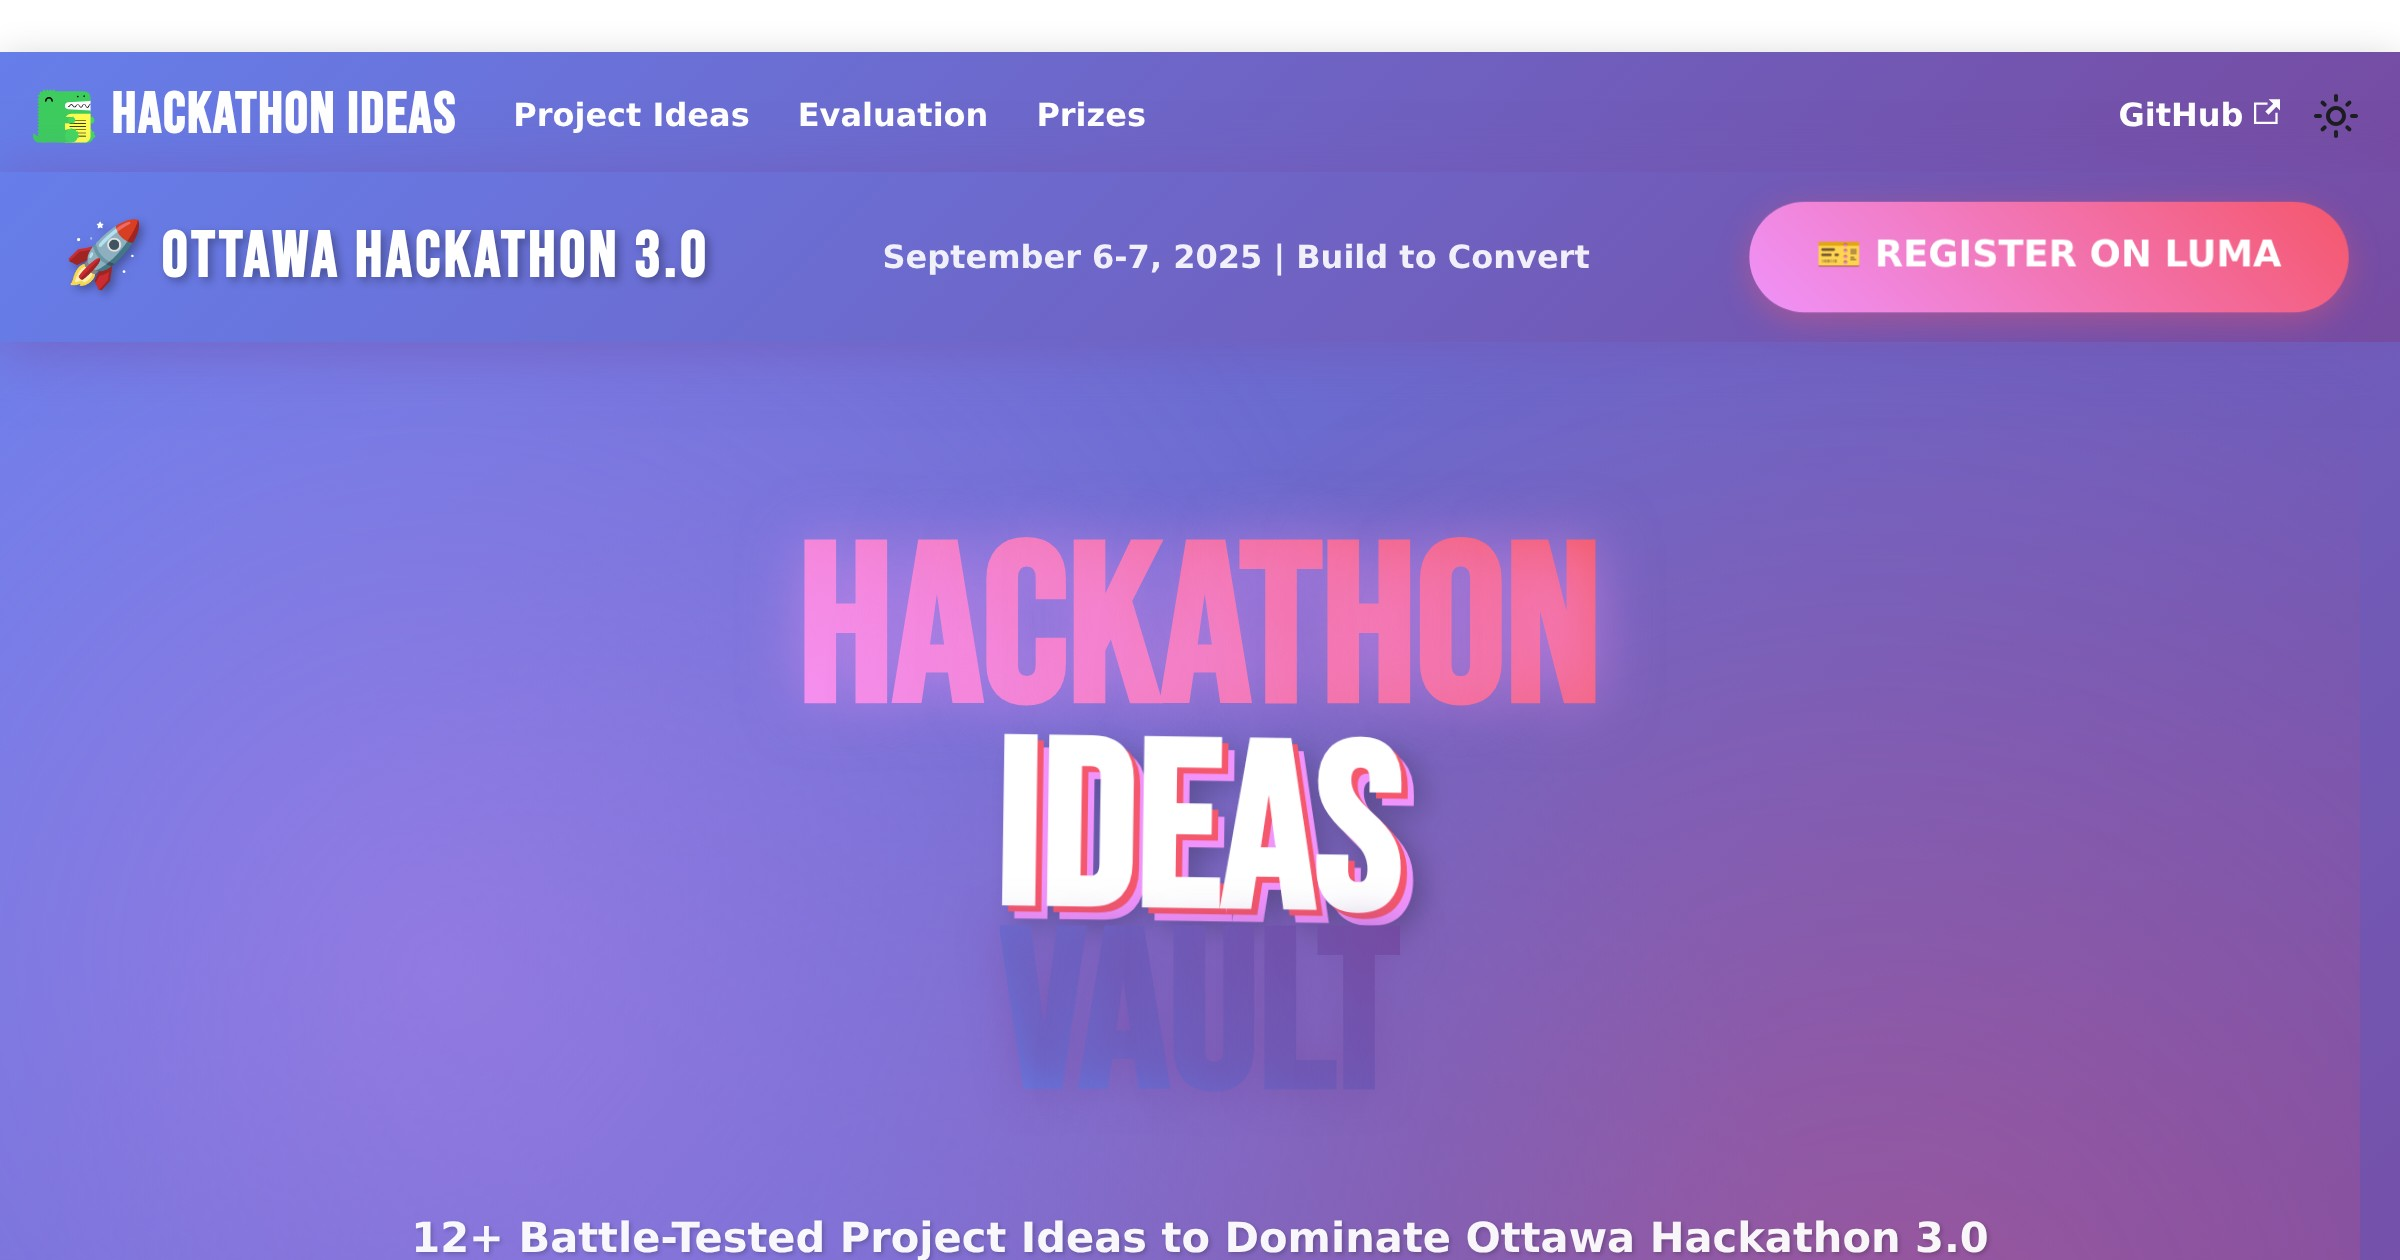
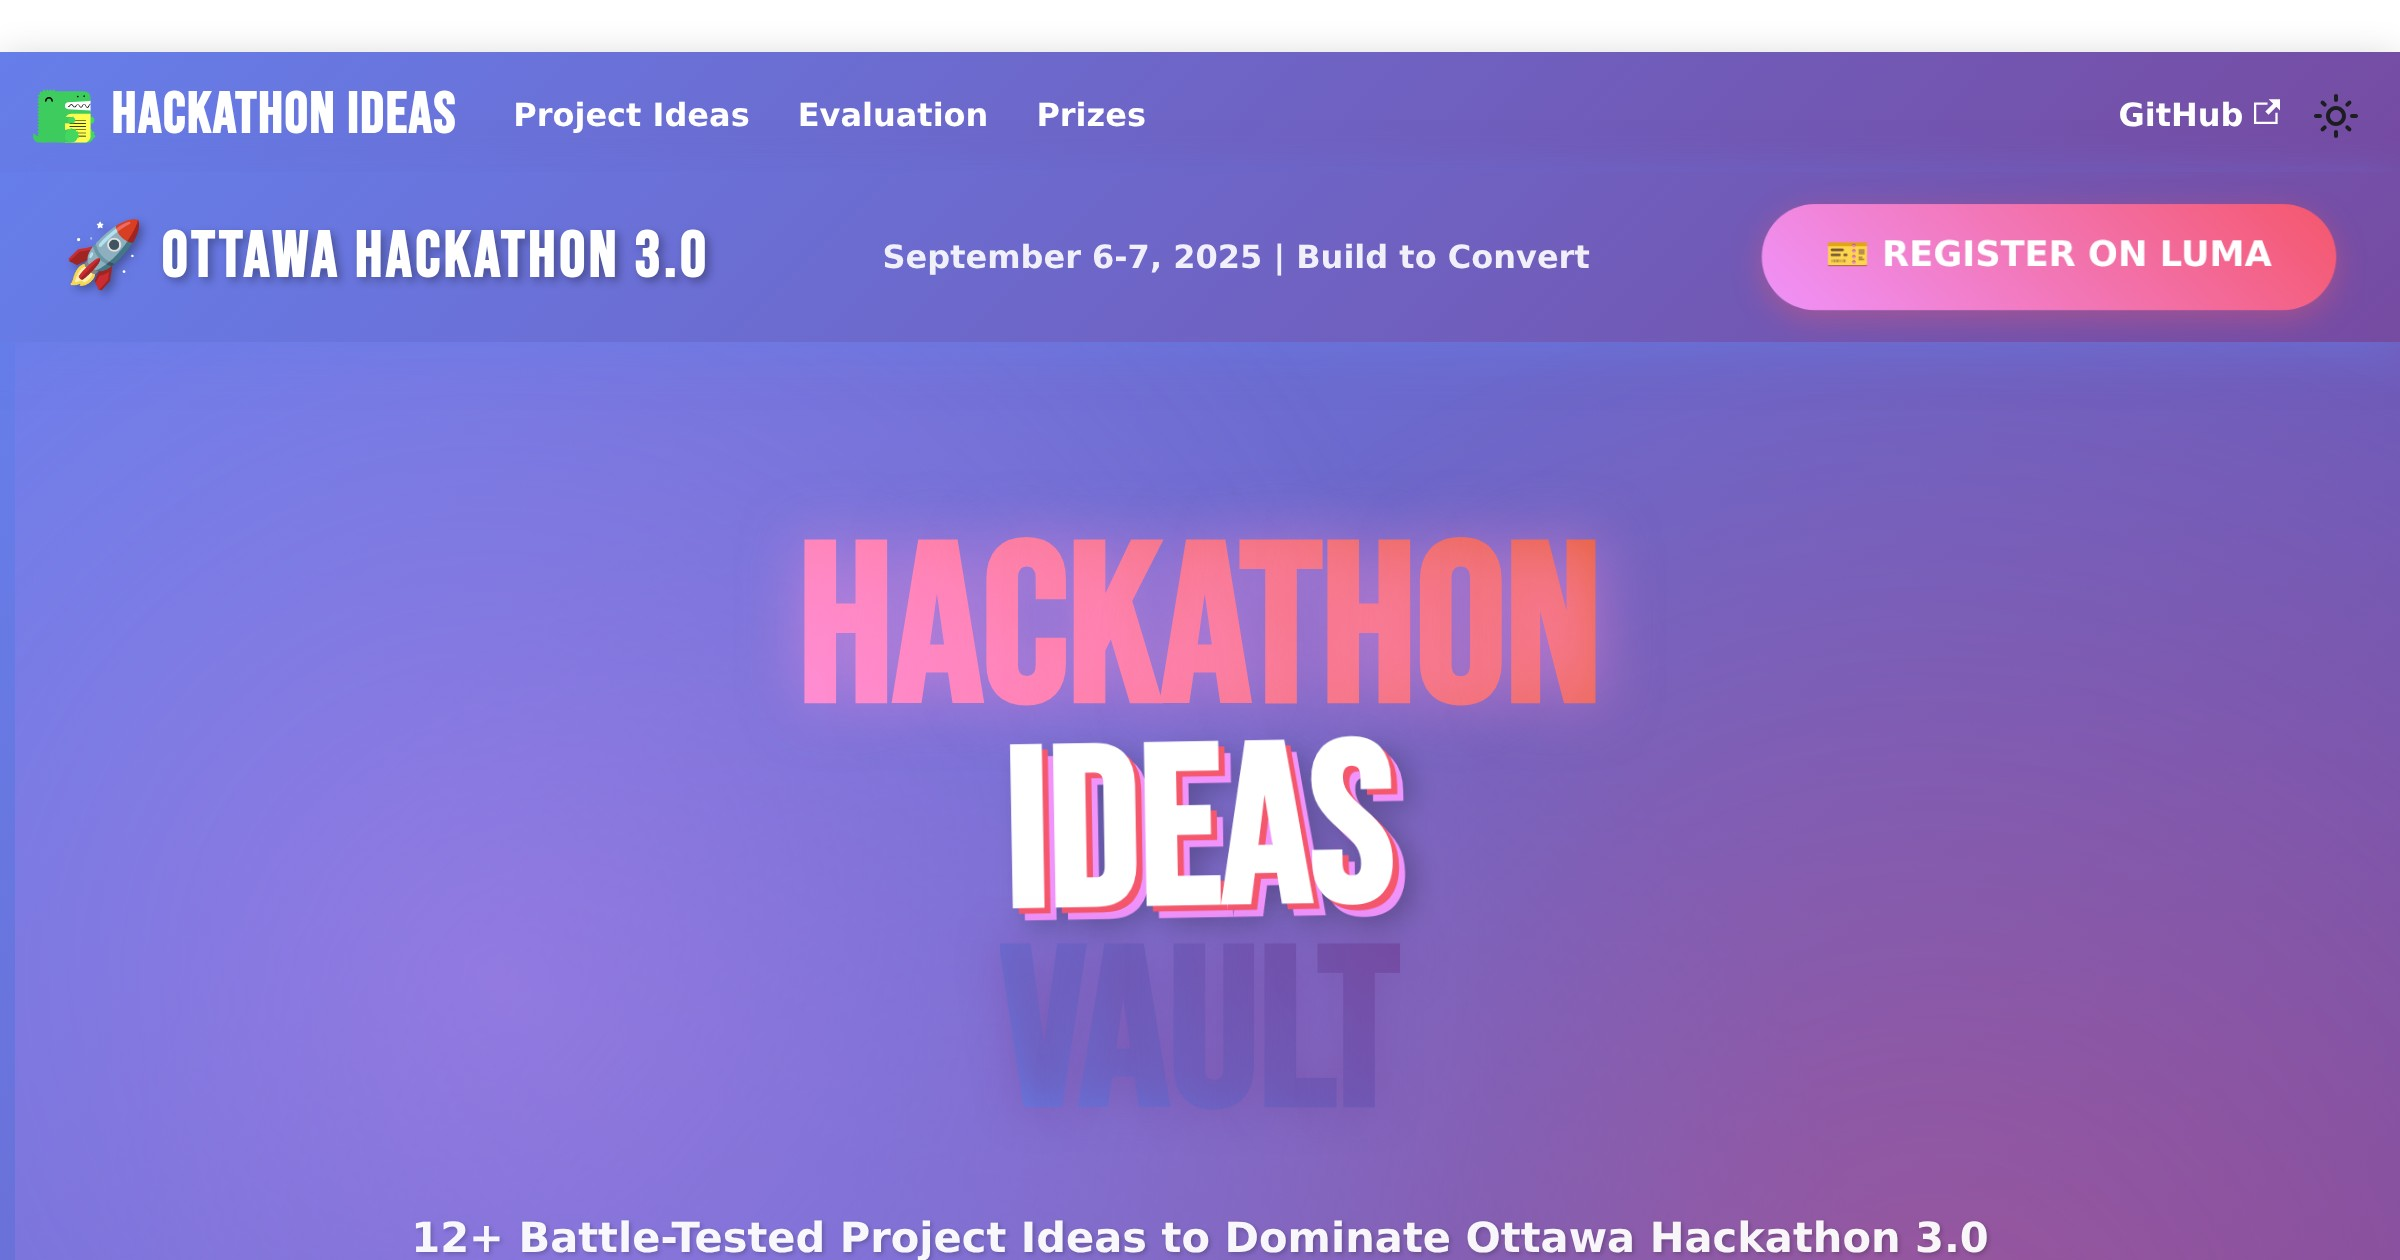
Add full-page screenshot showing entire website
- Create full-page screenshot capturing entire website content
- Keep social preview at optimal 1200x630 dimensions
- Update README to show full-page view
- Use fullPage: true parameter in Puppeteer for complete capture
- Maintain separate images for different use cases:
  - website-fullpage.jpg: Complete page view for README
  - website-preview.jpg: Standard viewport for general use
  - social-preview.jpg: Optimized for social media sharing

🤖 Generated with [Claude Code](https://claude.ai/code)

Changed region(s): [[0.3125, 0.4024, 0.6875, 0.7429], [0.7188, 0.1548, 1.0, 0.2476]]

diff --git a/README.md b/README.md
@@ -1,6 +1,6 @@
 # 🚀 Ottawa Hackathon 3.0 Ideas Vault
 
-![Hackathon Ideas Homepage](./static/img/website-preview.jpg)
+![Hackathon Ideas Homepage - Full Page View](./static/img/website-fullpage.jpg)
 
 ## 🔥 What's This All About?
 
